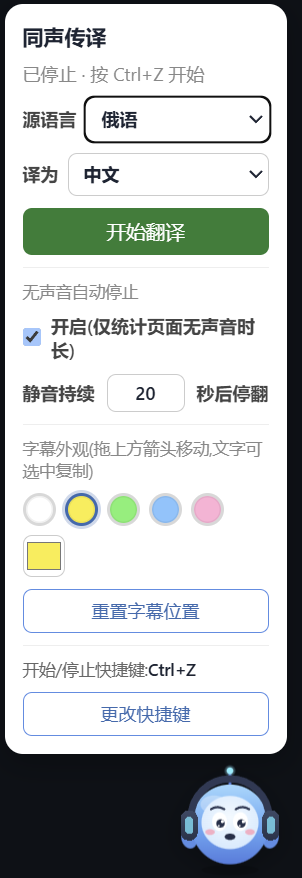
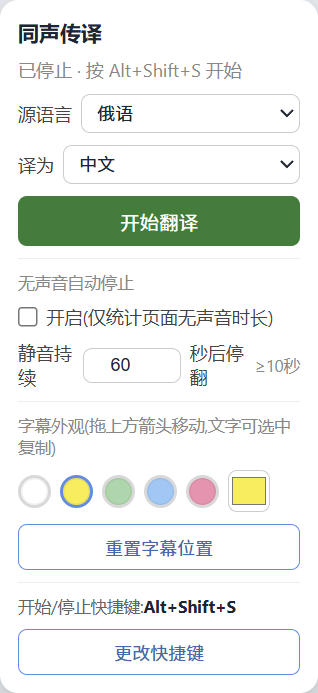
docs: 文档与 manifest 对齐当前代码(UI/目录/截图)

diff --git a/README.md b/README.md
@@ -35,14 +35,17 @@
 │   └── internal/
 │       ├── config/           # ★ 所有密钥与可调参数写死在此(不读环境变量)
 │       ├── logging/          # 结构化日志(记录 X-Tt-Logid)
-│       └── server/           # WebSocket 中继骨架
-└── extension/                # Chrome 扩展 (Manifest V3)
+│       ├── asr/              # 火山 ASR 流式客户端(二进制协议)
+│       ├── translate/        # 方舟翻译、分句策略、术语表、语种路由
+│       ├── tts/              # 火山 TTS 双向流式 V3(连接复用)
+│       └── server/           # WebSocket 中继、会话、纠错调度
+└── extension/                # Chrome/Edge 扩展 (Manifest V3)
     ├── manifest.json
-    ├── background.js         # Service Worker:控制 & 转发
-    ├── offscreen.html/.js    # 音频采集 + WebSocket 推流
-    ├── audio-worklet.js      # 16kHz PCM 重采样(里程碑 2)
+    ├── background.js         # Service Worker:抓音授权、状态、消息转发
+    ├── offscreen.html/.js    # 音频采集 + WebSocket 推流 + TTS 播放
+    ├── audio-worklet.js      # 16kHz PCM 重采样 + VAD(里程碑 2)
     ├── content.js + overlay.css  # 桌宠控制台 + 滚动字幕 overlay
-    └── popup.html/.js        # (兼容)弹窗控制
+    └── popup.html/.js        # 遗留弹窗页(未挂 default_popup;主入口为扩展图标/快捷键 + 桌宠)
 ```
 
 ## 配置(写死,不用环境变量)
@@ -116,11 +119,12 @@ curl http://localhost:8765/healthz
 > | **韩语** | 整句单条,60ms 预览跟嘴 | 定稿秒升预览 + 后台 Pro 精修 |
 > | **法语/德语** | 整句单条,100ms 预览跟嘴 | 定稿秒升预览 + 后台 Pro 精修 |
 > | **俄语** | 整句单条,90ms 预览跟嘴 | 定稿秒升预览 + 后台 Pro 精修 |
+> | **西班牙语** | 整句单条,预览节流 250ms(沿用欧美默认) | 定稿走 Pro 完整翻译 |
 > 小语种走专用 ASR 路由与更快判停。桌宠支持**语言热切换**(翻译进行中改源/目标语立即生效)。
 
 ## 成品预览(运行成功截图)
 
-以下为**实际运行**界面(俄→中示例):桌宠控制台 + Chrome 扩展 + 页面底部**滚动累积中文字幕**。
+以下为**实际运行**界面(俄→中示例):桌宠控制台(含 `≥10秒` 静音下限提示) + 扩展已加载 + 页面底部**滚动累积中文字幕**。快捷键以浏览器扩展快捷键页为准(默认 `Alt+Shift+S`)。
 
 | 滚动字幕(视频页) | 扩展已加载 | 桌宠控制面板 |
 |---|---|---|
@@ -142,7 +146,7 @@ curl http://localhost:8765/healthz
    ```
    看到日志 `websocket relay listening addr=0.0.0.0:8765 ws_path=/ws` 即就绪;
    可另开一个终端 `curl http://localhost:8765/healthz` 看到 `{"status":"ok"}` 确认存活。
-3. Chrome 加载扩展(`chrome://extensions` → 开发者模式 → 加载已解压的扩展程序 → 选 `extension/`)。
+3. Chrome 或 Edge 加载扩展(`chrome://extensions` / `edge://extensions` → 开发者模式 → 加载已解压的扩展程序 → 选 `extension/`)。主入口为**扩展图标/快捷键 + 桌宠**;`popup.html` 为遗留文件,未在 `manifest.json` 挂 `default_popup`。
 4. 打开一个**有外语音频**的标签页(英文演讲 / 播客 / 视频),先**手动播放**确认有声音;页面右下角会出现**桌宠**。
 
 ### 1. 开场(15 秒)
@@ -179,7 +183,7 @@ curl http://localhost:8765/healthz
 
 - **桌宠点「开始翻译」没反应?** 每个新标签页**第一次**需先点工具栏扩展图标或按快捷键授权本页;之后桌宠按钮即可用。
 - **字幕不出现?** 先确认后端在跑(`/healthz` 为 ok)、桌宠面板显示已开始(或后端有 `client connected` 日志)、且标签页**确实在出声**;再看 `asr handshake` 与 `audio received`。
-- **只有原文、没有中文译文?** 多半是 `ArkAPIKey/ArkModel` 仍是占位符,后端会打印 `translation disabled` 警告。填好真实方舟配置即可。
+- **只有空白、没有中文译文?** 界面只显示目标语(中文);多半是 `ArkAPIKey/ArkModel` 仍是占位符,后端会打印 `translation disabled` 警告。填好真实方舟配置即可。
 - **听不到语音?** TTS 默认关闭;需在 `config.go` 设 `TTS.Enable=true` 并把 `TTSVoiceType` 填成控制台音色列表里的真实值(占位符时后端只打印一次性提示、不影响字幕)。
 - **采样率/音频不对?** 后端 `audio received` 日志会按 16kHz 估算时长,可据此核对前端重采样是否正常。
 - **连接老断?** 属正常,前后端都会指数退避自动重连(参数见 `config.Reconnect`)。